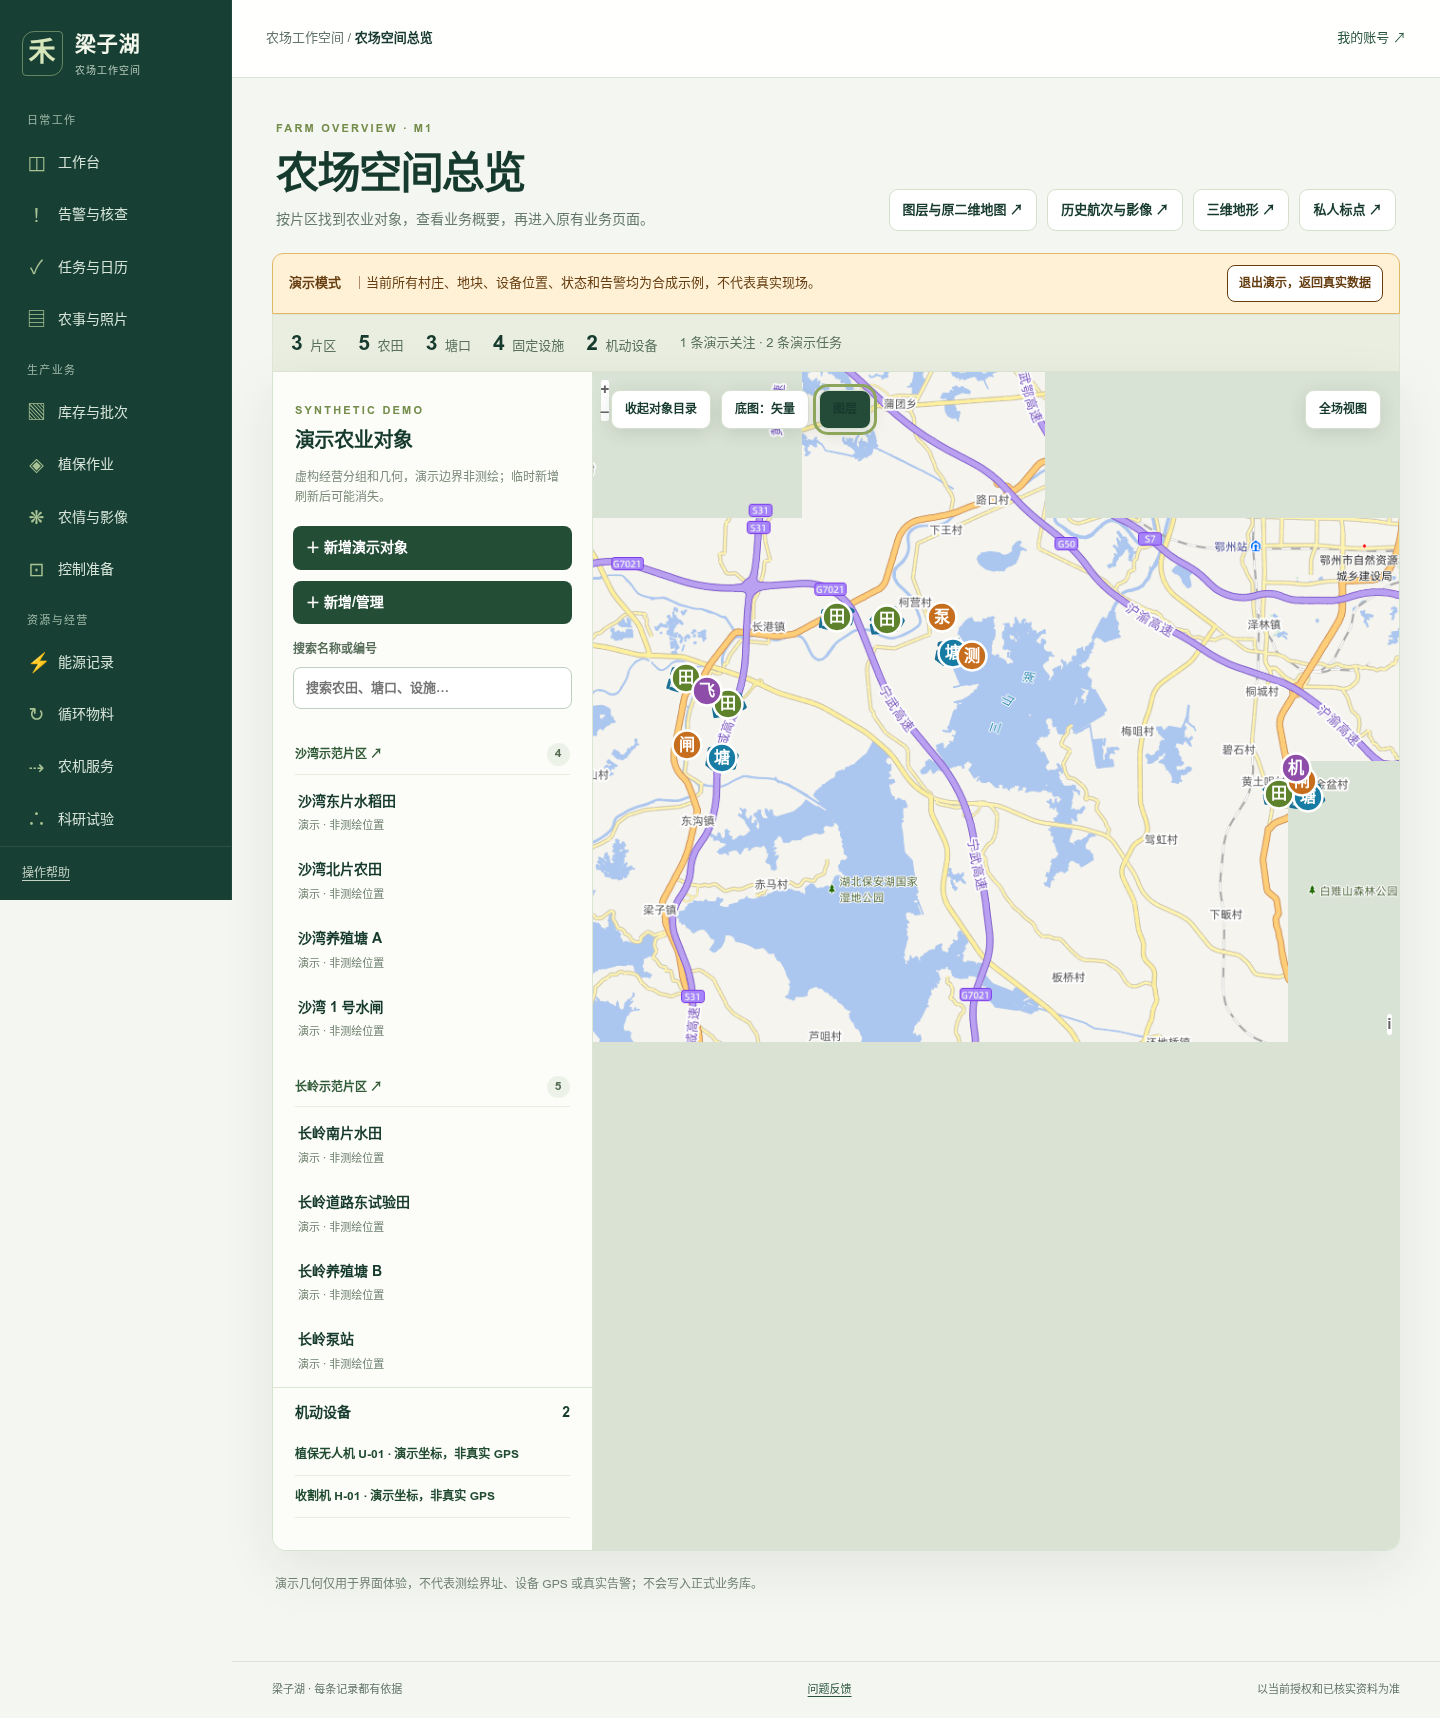
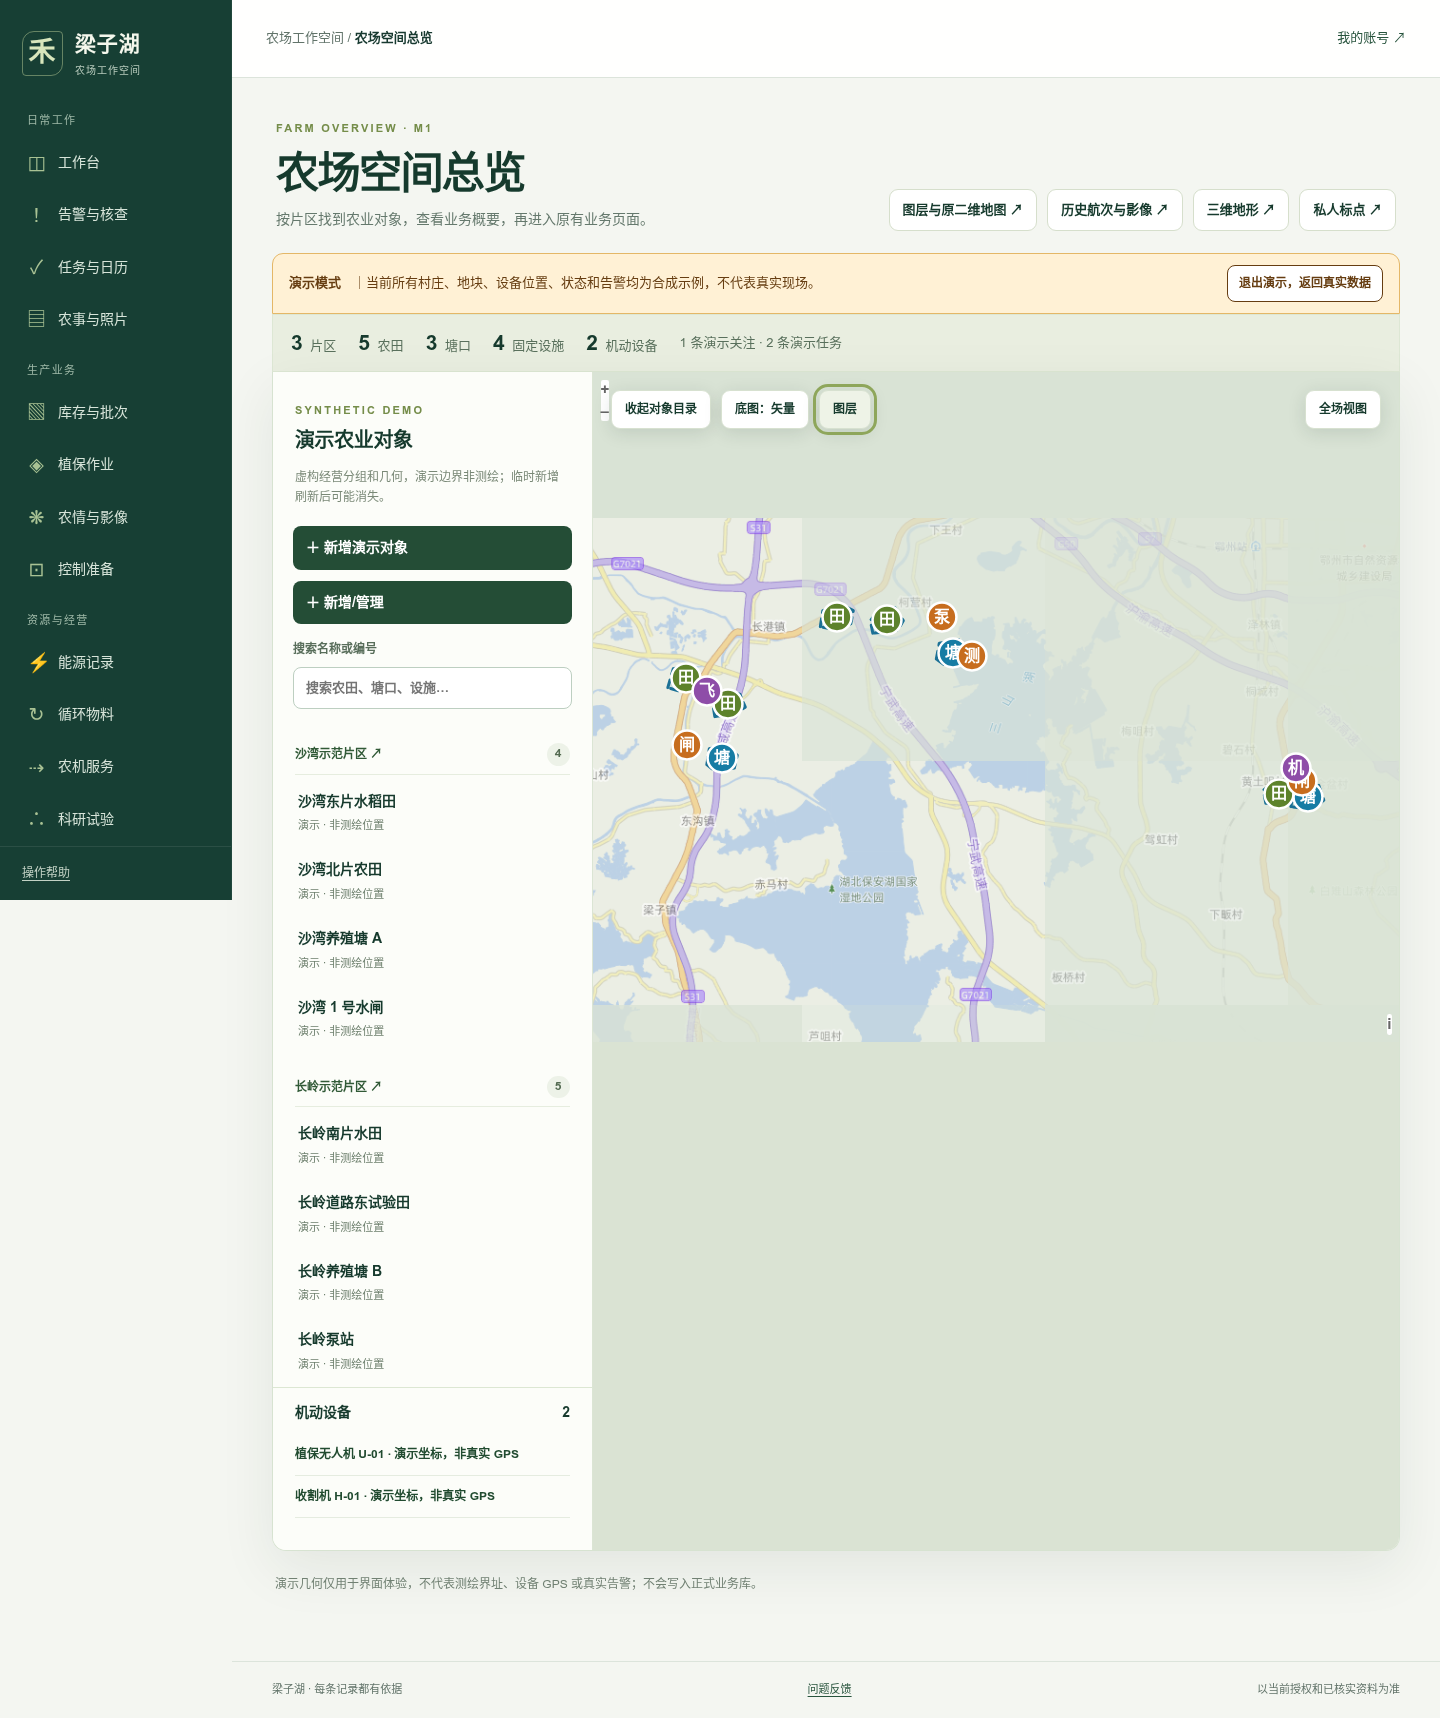
docs(m1): M1 验收记录、截图、变更日志与 README 升级说明

diff --git a/docs/acceptance/m1/2026-10-14-M1地图与UI改造验收记录.md b/docs/acceptance/m1/2026-10-14-M1地图与UI改造验收记录.md
@@ -1,0 +1,44 @@
+# M1 地图与 UI 改造验收记录
+
+日期：2026-10-14。依据：`计划/M1：地图与 UI 改造.md`、[M1 设计说明](../../plans/2026-10-14-M1地图与UI改造设计.md)、[产品定义与最终开发边界 v1.0](../../plans/../../../计划/产品定义与最终开发边界%20v1.0.md)。基线 `e3c94d2`（D3.1 完成态），分支 `m1-map-ui-redesign`。所有验证在 luminous 隔离环境（独立 worktree `/data/wfx/liangzihu-m1`、隔离测试库随机 schema）完成；未改动生产部署、生产数据库与 `/map`、`/map-prototype`、`/terrain`。
+
+## 改动摘要
+
+1. **默认底图改为天地图矢量（vec_w + cva_w）**，卫星影像（img_w + cia_w）保留工具栏一键切换；注记随底图联动，可整体关闭；两种底图均挂 `tileloaderror` 诊断。`TiandituLayer` 扩展为 `img/cia/vec/cva`，同一 Key、同一 WMTS/EPSG:3857 体系，无新增授权风险。
+2. **默认视图聚焦梁子湖农业区**：农场总览使用自有常量 `FARM_HOME_4326=[114.635,30.25]`、初始 zoom 12（原 11）；有授权对象时仍自动 fit 对象范围。未绘制任何湖泊范围作为农场边界；无坐标对象维持"待登记边界"。
+3. **工具栏与图层面板**：目录开关、底图切换、「图层」面板、全场视图。面板含底图单选、注记开关、业务类别显隐（农田/塘口/渠道/固定设施/机动设备，仅影响地图渲染，不改变目录与授权数据）与分类图例；原生控件、Esc 可关。修复了全局 `button:hover` 深色样式遮盖工具栏文字的问题，卫星底图激活态为深绿底白字。
+4. **分类视觉体系**：新增 `map-symbols.ts`，真实图层按类别着色（农田绿、塘口蓝、渠道青、设施橙、机动紫），边界加白色衬底描边保证在浅色矢量与深色卫星底图上均可辨识；已核实实线/草稿虚线沿用；设施 zoom<13 渐进隐藏保留；演示图层保持蓝色虚线面 + 分类图标，与正式边界语义不混淆。
+5. **会话状态**：`SavedState` 向后兼容增加 `basemap` 与 `visibility`，旧存档缺省为矢量/全显；底图与类别选择变化即写回 sessionStorage，刷新后保持。模式切换（real/demo）保留底图偏好、重置类别显隐。
+6. **低频编辑保持独立**：总览页不新增真实绘制；演示内嵌绘制与 `/map-prototype` 私人标点入口保持原样。
+
+## 验证结果
+
+| 项目 | 结果 |
+|---|---|
+| `pnpm typecheck` | 通过 |
+| `pnpm build`（webpack 生产构建） | 通过 |
+| `pnpm test:unit` | 94 通过；`verification-hardening` 1 项并发时序用例在全量运行时偶发失败，单独重复运行均通过，与本次改动无关 |
+| `pnpm test:db`（163 项集成） | 155 通过；8 项失败（萤石/司空/天气备份恢复、C07 导出、BGE/YOLO/SigLIP2 模型类）在**未改动的基线 main 检出上同样失败 8 项**，属 luminous 环境既有问题，非本次引入 |
+| `tests/acceptance/farm-overview-m1-browser.test.ts`（新增） | 通过：默认矢量底图（网络层断言请求 vec_w/cva_w、无 img_w）、切换卫星（断言 img_w/cia_w 请求）、刷新后底图保持、注记开关、类别显隐复选、图例 real/demo 文案、Esc 关面板、演示分类图标、手机 390px 无横向溢出、零页面脚本错误 |
+| D1 / D2 / D3.1 既有浏览器回归 | 全部通过（断言文案由"天地图卫星影像…"更新为"天地图矢量底图…"，原因：默认底图变更；权限、演示零写请求、状态恢复等断言未削弱） |
+| `pnpm test:browser`（platform-browser 平台闭环） | **未通过**："隔离浏览器服务器未启动"。在未改动的基线 main 检出上重跑同样失败，为 luminous 本机预存在问题（该用例不经 `PLAYWRIGHT_CHROMIUM_EXECUTABLE_PATH`，且其自建服务探活 10 秒超时）；建议后续单独排查 |
+
+实现过程主控审查修复的两个问题（均在提交前完成）：底图切换因 ref 在渲染期被同步导致瓦片源永不更换；分类样式读取的要素属性名与装载循环不一致（`boundary_status` vs `status`），会导致已核实边界被渲染为草稿虚线。另将底图/类别恢复从 `useState` 惰性初始化改为挂载后恢复，修复 SSR 水合不一致（React #418）。
+
+## 截图
+
+- [矢量底图默认视图（桌面）](2026-10-14-M1矢量底图默认视图.png)：浅色低干扰矢量底图，农田绿实线（已核实）、塘口蓝虚线（草稿）清晰可辨
+- [卫星底图切换（桌面）](2026-10-14-M1卫星底图切换.png)：切换后卫星影像 + 影像注记，边界白衬底描边保持可读
+- [图层面板与图例](2026-10-14-M1图层面板与图例.png)：底图单选、注记开关、类别显隐、分类图例
+- [演示模式分类图标](2026-10-14-M1演示模式分类图标.png)：田/塘/闸/泵/测/飞/机分类图标，演示横幅持续可见（截图为合成演示数据，非现场资料）
+- [手机矢量底图与详情](2026-10-14-M1手机矢量底图与详情.png)：390px 目录抽屉与底部详情
+
+改造前对比截图沿用 [D3.1 验收记录](../farm-overview-demo/2026-10-09-D3.1产品可用性验收记录.md) 中的卫星底图截图（git 历史 `e3c94d2`）。
+
+## 遗留问题
+
+1. 真实多村、真实机动设备定位与现场网络下的底图配额/Key 表现仍需现场验收；本轮为隔离环境工程验证。
+2. `platform-browser` 平台闭环用例在 luminous 预存在失败（基线同样失败），与 M1 无关，需单独排查其自建服务探活。
+3. 集成测试 8 项备份恢复/模型类失败为 luminous 环境既有问题，建议在该环境补齐模型与备份目标后复测。
+4. 图层面板暂不支持点击面板外区域关闭（Esc 与关闭按钮可用）；类别显隐状态在 real/demo 切换时重置为全显。
+5. M2/M3（如量测、更多专题图层）未启动，按任务书不在本轮范围。

diff --git a/README.md b/README.md
@@ -10,6 +10,8 @@
 
 ## 最新升级
 
+**2026-10-14：M1 地图与 UI 改造完成，待验收（分支 `m1-map-ui-redesign`）。** `/farm-overview` 默认改用天地图矢量底图（简洁低干扰），卫星影像一键切换、注记可关；新增图层面板管理底图、注记与农田/塘口/渠道/固定设施/机动设备的显隐并附分类图例；真实对象边界按类别着色并加白色衬底描边，已核实实线、草稿虚线不变；默认视口聚焦梁子湖农业区。底图与类别选择刷新后保持。类型检查、生产构建、新增 M1 浏览器用例及 D1—D3.1 回归通过。[M1 验收记录与截图](docs/acceptance/m1/2026-10-14-M1地图与UI改造验收记录.md)。未部署生产，等待验收。
+
 **2026-10-09：D3.1 农场总览可用性修订已部署到 luminous。** `/farm-overview` 默认显示真实授权数据，可主动切换至醒目标记的只读演示：3 个虚构片区、5 块农田、3 个塘口、4 处设施、2 台机动设备及示例关注/任务。演示位置、边界、数值和状态均非现场资料，不写正式业务表。真实模式的“＋ 新增/管理”提供村庄、对象、设施和实体设备登记路径；设备登记须先有数据来源，不等于核实、定位或控制。详情抽屉优先展示业务摘要，系统元数据默认折叠。[D3.1 验收记录与截图](docs/acceptance/farm-overview-demo/2026-10-09-D3.1产品可用性验收记录.md)。正式多村与设备现场验收仍待完成。
 
 验收意见修订：演示机动设备仅列在独立目录，设备登记成功后列表立即刷新；合成锚点按卫星影像微调，仍为非测绘位置；农场详情数量按当前农场计算。演示时登录后直接打开 `/farm-overview?demo=1`，可一键退出回到真实数据。演示地图现有不同形状的农田/塘口边界和分类图标；“＋ 新增演示对象”可在地图绘制农田/塘口，或单击放置水闸、水泵、无人机、农机。临时数据仅在页面内存中，刷新后可能消失，不写正式业务库。真实多村和终端仍待现场验收。

diff --git a/CHANGELOG.md b/CHANGELOG.md
@@ -4,6 +4,11 @@
 
 从 2026-10-04 起，每次代码、配置、依赖、数据库或文档调整均须随交付更新本文件。同一任务的连续修改合为一条，同日不同任务另起条目；历史补记注明来源。日期采用北京时间，序号只区分当天记录，不是软件版本号。
 
+## 2026-10-14 · 01 · M1 地图与 UI 改造
+
+- **改动与原因**：`/farm-overview` 默认底图由卫星影像改为天地图矢量底图（vec_w+cva_w），卫星保留一键切换且注记联动、可关闭；新增图层面板（底图、注记、农田/塘口/渠道/固定设施/机动设备类别显隐、分类图例）；真实对象边界按类别着色并加白色衬底描边，已核实实线/草稿虚线不变；默认视口聚焦梁子湖农业区（zoom 12）；底图与类别选择写入会话状态，刷新保持。样式抽为 `map-symbols.ts`、面板为 `layer-panel.tsx`；修复工具栏按钮悬停对比度。设计见 [M1 设计说明](docs/plans/2026-10-14-M1地图与UI改造设计.md)。
+- **验证与影响**：luminous 隔离环境类型检查与生产构建通过；单测 94 通过（1 项既有并发时序用例全量偶发、单独通过）；集成 155/163，8 项失败在基线 main 同样失败（备份恢复/模型类环境问题）；新增 M1 浏览器用例及 D1/D2/D3.1 回归通过；platform-browser 用例在本机与基线均未通过（预存在问题）。无数据库迁移，未改 `/map`、`/map-prototype`、`/terrain` 与正式 API，未部署生产。[M1 验收记录与截图](docs/acceptance/m1/2026-10-14-M1地图与UI改造验收记录.md)。
+
 ## 2026-10-09 · 17 · GIS 演示交互修订
 
 - **改动与原因**：8 个合成农田/塘口使用各不相同的闭合不规则边界；OpenLayers 内嵌 SVG 区分农田、塘口、水闸、水泵、监测桩、无人机和收割机。演示模式新增地图绘制：面双击结束、点单击定位；新增项仅存页面内存，更新目录与统计，刷新可能消失。
